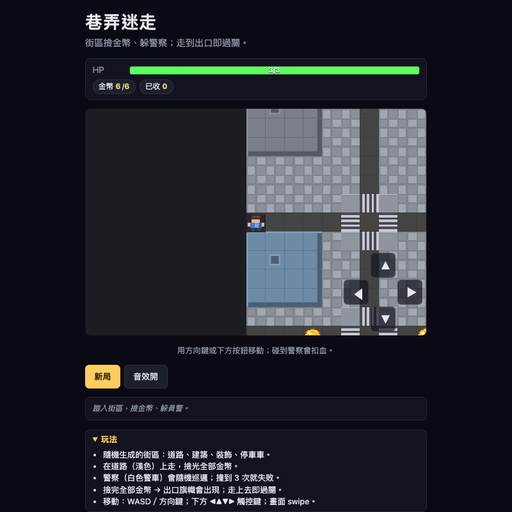
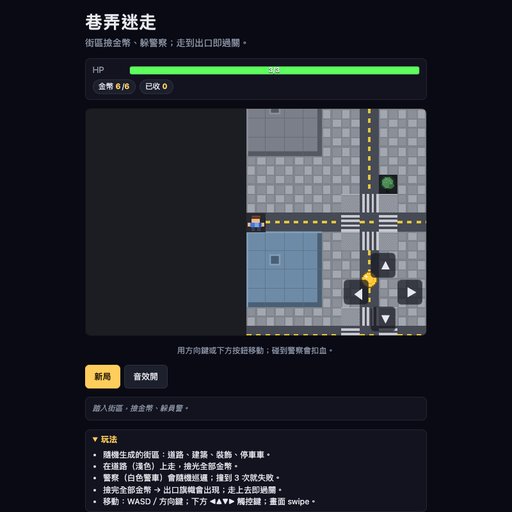
fix: load oriented road tiles so center dashes render
The prior fix selected road_main_h/v in tileFileFor but those filenames
weren't in the tile load list, so roads fell back to flat gray with no
dash. Add them to TILE_FILES_FOR_LOAD and regenerate thumbnail.

diff --git a/app.js b/app.js
@@ -39,10 +39,12 @@ const TILE_FILES = {
 };
 // 玩家單一站立小人（本 pack 人物無朝向），改用走路 bob 動畫
 const PLAYER_FILE = "player.png";
-// 要載入的所有 tiles
+// 要載入的所有 tiles（含依方向選取的橫／縱主道路）
 const TILE_FILES_FOR_LOAD = Array.from(new Set([
   ...Object.values(TILE_FILES),
   PLAYER_FILE,
+  "road_main_h.png",
+  "road_main_v.png",
 ]));
 
 const el = {
